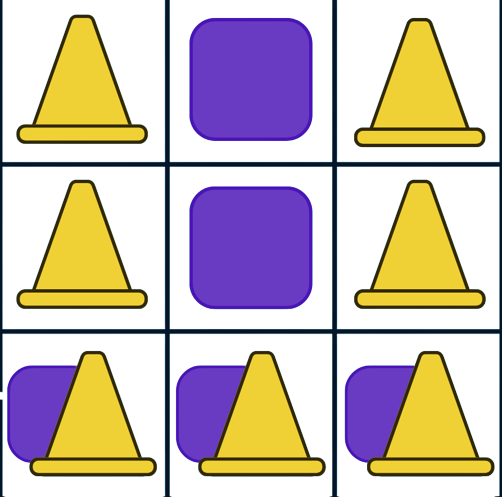
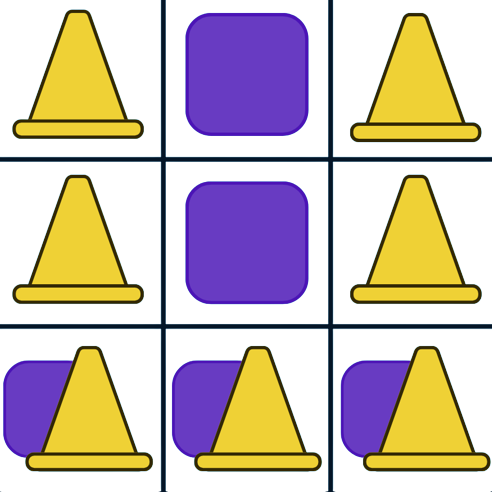
fix: tele and autoscore scaling and display

diff --git a/src/lib/components/match-scout-components/AutoScore.svelte b/src/lib/components/match-scout-components/AutoScore.svelte
@@ -4,8 +4,6 @@
     import SuccessFailure from "$lib/assets/SuccessFailure.png";
     import { Canvas, Layer } from "svelte-canvas";
     import { onMount } from 'svelte';
-    import { DEBUG } from "$lib/stores/generalStores";
-    import DefenseButton from "./DefenseButton.svelte"
     import { info } from "$lib/stores/generalStores";
 
     let outerHeight : number
@@ -13,17 +11,6 @@
 
     let click: { row: number, col: number } | null = null
     team_number.set($info.robot?.team_key.split("").filter((_e, i) => i >= 3).join(''));
-    let initialDefenseTime: number
-    let lastCycleTimestamp: number
-
-    let clicked: boolean = false;
-    let row: number;
-    let col: number;
-
-    let success: boolean = false;
-    let fail: boolean = false;
-    let successColor = "#fcf7f7";
-    let failColor = "#fcf7f7";
 
     const autoScoreSucceed = [
         auto_high_left_succeed, 
@@ -66,7 +53,7 @@
                 context.drawImage(AutoScoreBoard, 0, 0, outerWidth, outerWidth)
           }
       }       
-  };
+    };
 
     function handleBackClick() {
       click = null;
@@ -90,38 +77,21 @@
         }
     }
 
-  /**
-   * Toggles the fail boolean, and changes the color of the fail button
-   * 
-   */
-  function handleFailClick() {
-    if (DEBUG) console.log("Fail changed to " + !fail);
-    success = false;
-    fail = true;
-    if (fail) {
-      successColor = "#fcf7f7";
-      failColor = "#db0f0f";
-    } else {
-      successColor = "#0fdb1a";
-      failColor = "#fcf7f7";
-    }
-  }
-
     onMount(() => {
         outerWidth = document.getElementById("header")?.clientWidth || window.outerWidth
         outerHeight = document.getElementById("header")?.clientHeight || window.outerHeight 
 
         // outerWidth -= 20;
         // outerHeight -= 20;
-        outerHeight /= 1.2;
-        outerWidth /= 1.2;
+        // outerHeight /= 1.2;
+        // outerWidth /= 1.2;
     })
 
 </script>
 
 <!-- <svelte:window bind:outerHeight bind:outerWidth/> -->
 <div class="grid grid-rows-1 grid-cols-1 place-items-center">
-  <h1 id="header" class="text-purple-600 text-center text-5xl font-extrabold">AutoScore {$team_number}</h1>
+  <h1 id="header" class="text-purple-600 text-center text-4xl font-extrabold">AutoScore {$team_number}</h1>
 </div>
   
   <div class="grid grid-rows-1 grid-cols-1 place-items-center">
@@ -142,13 +112,6 @@
   {/if}
 
 <style>
-    #successBtn {
-      background-color: var(--success-color);
-    }
-
-    #failBtn {
-      background-color: var(--fail-color);
-    }
 
     #backBtn {
       background-color: beige;

diff --git a/src/lib/components/match-scout-components/TeleScore.svelte b/src/lib/components/match-scout-components/TeleScore.svelte
@@ -1,5 +1,5 @@
 <script lang="ts">
-    import TeleOpScoring from '$lib/assets/Teleop.png'
+    import TeleOpScoring from '$lib/assets/TeleOpScoring-removebg-preview.png'
     import SucceessFailure from '$lib/assets/SuccessFailure.png'
     import {
         cycle_times,
@@ -125,7 +125,17 @@
 </script>
 
 <!-- <svelte:window bind:outerHeight bind:outerWidth/> -->
-<h1 id="header" class="text-red-600 text-center text-5xl font-extrabold">TeleScore</h1>
+<h1 id="header" class="text-red-600 text-center text-5xl font-extrabold makeFont">TeleScoring</h1>
+<div class="grid grid-cols-1 grid-rows-1 place-items-center">
+    <Canvas
+        width={outerWidth}
+        height={outerWidth}
+        on:click={mouseClicked}
+        >
+        <Layer {render} />
+    </Canvas>
+</div>
+
 
 <div
     class="p-5 grid grid-cols-1 grid-rows-1 place-items-center"
@@ -138,47 +148,13 @@
         >{click ? "Back" : "Defense"}</button
     >
 </div>
-  <Canvas
-  width={outerWidth}
-  height={outerWidth}
-  class="object-center"
-  on:click={mouseClicked}
-  >
-  <Layer {render} />
-  </Canvas>
 <style>
 
     .makeFont{
       font-family: "Poppins";
-      font-size: 24px;
-    }
-    
-    
-    .leftSide{
-      width: 40vw;
-      display: flex;
-      text-indent: 2px;
-      justify-content: left;
-    }
-    .rightSide{
-      width: 40vw;
-      padding-right: 2px;
-      display: flex;
-      justify-content: right; 
-
-    }
-    #successBtn {
-      background-color: var(--success-color);
+      font-size: 64px;
     }
 
-    #failBtn {
-      background-color: var(--fail-color);
-    }
-
-    #backBtn {
-      background-color: beige;
-    }
-    
 
       /* .endgameTitle{
         display: flex;

diff --git a/src/lib/components/match-scout-components/AutoCommunity.svelte b/src/lib/components/match-scout-components/AutoCommunity.svelte
@@ -1,6 +1,3 @@
-
-
-
 <script lang="ts">
     import { auto_community } from "$lib/stores/matchScoutStores";
     import Switch from "$lib/components/ui-components/Switch.svelte";
@@ -14,7 +11,7 @@
 
 <div class="makeBorder">
     <div class = "testBorder">
-        <h1> Is Broke</h1>
+        <h1> Left Community?</h1>
     </div> 
     <div class= "brokeSwitchRight">
         <Switch bind:checked={$auto_community}/>
@@ -26,7 +23,7 @@
         background-color: #efdcdc;
         border-color: black;
         border-width: 2px;
-        font-size: 23px;
+        font-size: 18px;
         font-family: "Poppins";
         border-radius: 0.5rem;
     }

diff --git a/src/routes/match-scout/+page.svelte b/src/routes/match-scout/+page.svelte
@@ -64,7 +64,6 @@
     >
     <h1 class="text-5xl"><strong>Waiting for Match Assignment</strong></h1>
   {:then}
-    <h1><strong>You've Been Assigned To Team {$info.robot?.team_key}</strong></h1>
     <ScoutCarousel />
   {:catch}
     <div class = "helpMe">

diff --git a/src/lib/components/match-scout-components/AutoChargeStation.svelte b/src/lib/components/match-scout-components/AutoChargeStation.svelte
@@ -65,6 +65,8 @@
     .makeColumnButtons{
         display: flex;
         flex-direction: column;
+        height: 20vh;
+        width: 50vw;
     }
     
     .buttonsTitle{

diff --git a/src/lib/components/ui-components/Range.svelte b/src/lib/components/ui-components/Range.svelte
@@ -1,4 +1,5 @@
 <script>
+  //@ts-nocheck
     import { createEventDispatcher } from "svelte";
     import { fly, fade } from "svelte/transition";
   
